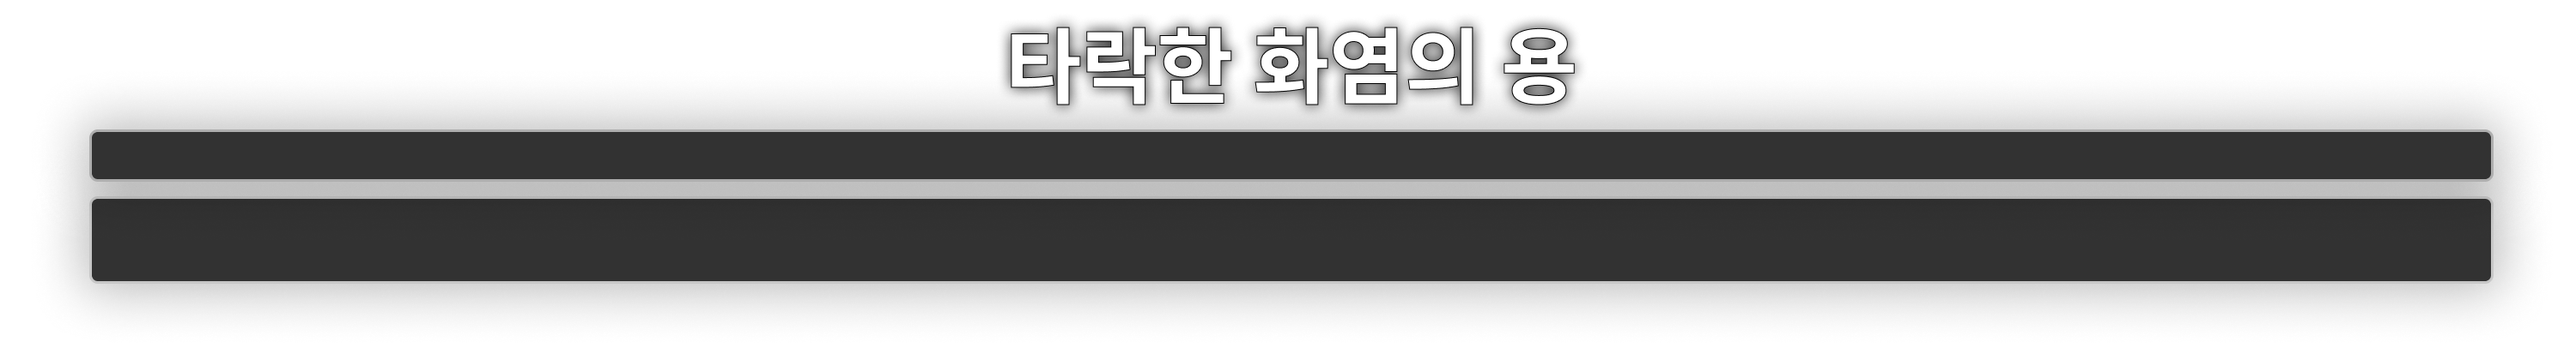
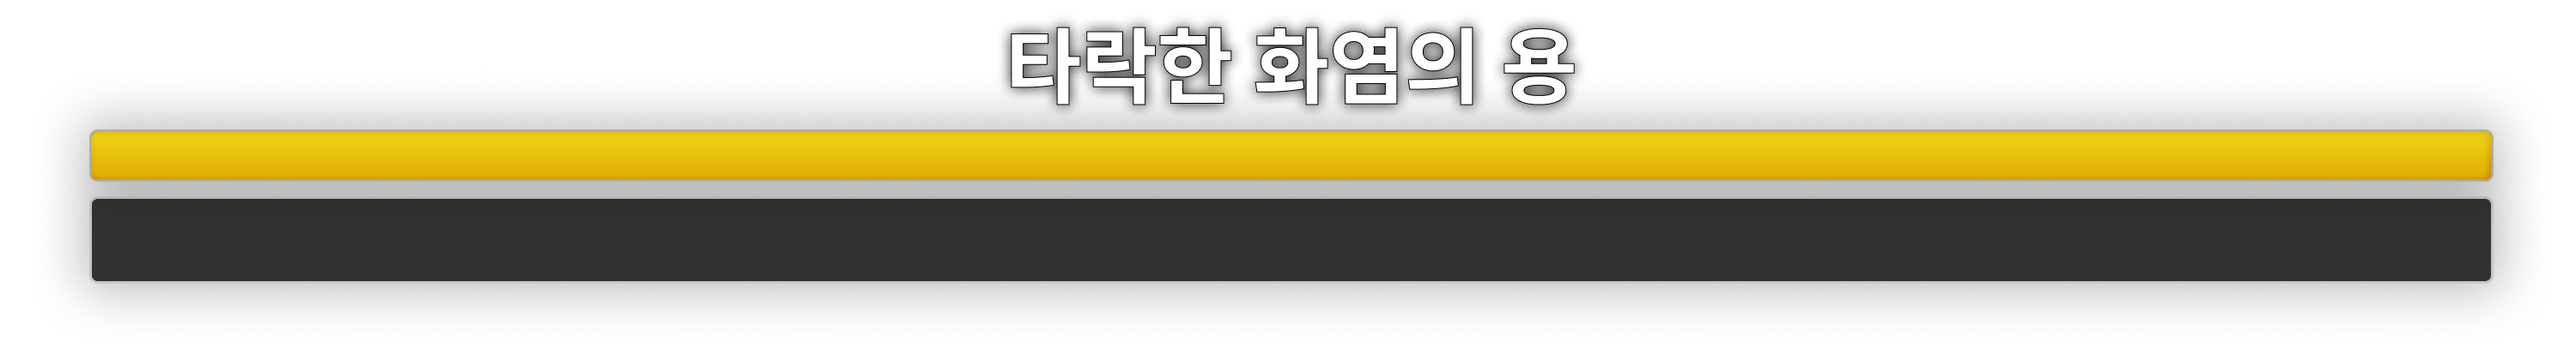
Final process (2)

Changed region(s): [[0.031, 0.3405, 0.992, 0.5262]]

diff --git a/evergreen_client/BossStatusGUI.cpp b/evergreen_client/BossStatusGUI.cpp
@@ -1,0 +1,55 @@
+#include "pch.h"
+#include "BossStatusGUI.h"
+
+using namespace udsdx;
+
+void BossStatusGUI::OnInitialize()
+{
+	m_iconObject = SceneObject::MakeShared();
+	m_iconObject->GetTransform()->SetLocalPosition(Vector3(0.0f, 627.0f, 0.0f));
+	auto iconRenderer = m_iconObject->AddComponent<GUIImage>();
+	iconRenderer->SetTexture(INSTANCE(Resource)->Load<udsdx::Texture>(RESOURCE_PATH(L"gui\\boss\\icon_boss.png")));
+	iconRenderer->SetSize(Vector2(185.0f, 185.0f));
+
+	GetSceneObject()->AddChild(m_iconObject);
+
+	m_panelObject = SceneObject::MakeShared();
+	m_panelObject->GetTransform()->SetLocalPosition(Vector3(0.0f, 500.0f, 0.0f));
+	auto panelRenderer = m_panelObject->AddComponent<GUIImage>();
+	panelRenderer->SetTexture(INSTANCE(Resource)->Load<udsdx::Texture>(RESOURCE_PATH(L"gui\\boss\\boss_status.png")));
+	panelRenderer->SetSize(Vector2(904.0f, 126.0f));
+
+	GetSceneObject()->AddChild(m_panelObject);
+
+	m_panelImpactObject = SceneObject::MakeShared();
+	auto panelImpactRenderer = m_panelImpactObject->AddComponent<GUIImage>();
+	panelImpactRenderer->SetTexture(INSTANCE(Resource)->Load<udsdx::Texture>(RESOURCE_PATH(L"gui\\boss\\boss_status_impact.png")));
+	panelImpactRenderer->SetSize(Vector2(904.0f, 126.0f));
+	panelImpactRenderer->SetFillType(GUIImage::FillType::FillHorizontalRight);
+
+	m_panelObject->AddChild(m_panelImpactObject);
+
+	m_panelFillObject = SceneObject::MakeShared();
+	auto panelFillRenderer = m_panelFillObject->AddComponent<GUIImage>();
+	panelFillRenderer->SetTexture(INSTANCE(Resource)->Load<udsdx::Texture>(RESOURCE_PATH(L"gui\\boss\\boss_status_fill.png")));
+	panelFillRenderer->SetSize(Vector2(904.0f, 126.0f));
+	panelFillRenderer->SetFillType(GUIImage::FillType::FillHorizontalRight);
+
+	m_panelObject->AddChild(m_panelFillObject);
+}
+
+void BossStatusGUI::OnActive()
+{
+	m_appearTime = 0.0f;
+}
+
+void BossStatusGUI::Update(const udsdx::Time& time, udsdx::Scene& scene)
+{
+	m_appearTime += time.deltaTime;
+	m_hpImpactTime -= time.deltaTime;
+	if (m_hpImpactTime <= 0.0f)
+		m_hpImpactFraction = std::lerp(m_hpImpactFraction, m_hpFraction, time.deltaTime * 8.0f);
+
+	m_panelImpactObject->GetComponent<GUIImage>()->SetFillAmount(std::min(m_hpImpactFraction, m_appearTime * 0.5f));
+	m_panelFillObject->GetComponent<GUIImage>()->SetFillAmount(std::min(m_hpFraction, m_appearTime * 0.5f));
+}

diff --git a/evergreen_client/MonsterBoss.cpp b/evergreen_client/MonsterBoss.cpp
@@ -2,6 +2,8 @@
 #include "MonsterBoss.h"
 #include "EntityMovement.h"
 #include "ServerObject.h"
+#include "BossStatusGUI.h"
+#include "GameScene.h"
 
 void MonsterBoss::OnInitialize()
 {
@@ -65,7 +67,28 @@ void MonsterBoss::OnInitialize()
 
     m_stateMachine->AddTransition<Common::AnimationStateTransition<AnimationState>>(AnimationState::BossLanding, AnimationState::Idle, m_renderer);
 
+    m_bossStatusGUI = SceneObject::MakeShared();
+    auto bossStatusComponent = m_bossStatusGUI->AddComponent<BossStatusGUI>();
+
     InitializeMonster("Boss");
+}
+
+void MonsterBoss::OnAttach()
+{
+    auto scene = GetSceneObject()->GetScene();
+    if (scene != nullptr)
+    {
+        auto gameScene = dynamic_cast<GameScene*>(scene);
+        if (gameScene != nullptr)
+        {
+            gameScene->AddInterfaceObject(m_bossStatusGUI, true);
+        }
+    }
+}
+
+void MonsterBoss::OnDetach()
+{
+    m_bossStatusGUI->RemoveFromParent();
 }
 
 void MonsterBoss::Update(const Time& time, Scene& scene)
@@ -78,6 +101,12 @@ void MonsterBoss::Update(const Time& time, Scene& scene)
     }
 
     Monster::Update(time, scene);
+}
+
+void MonsterBoss::OnHit(int afterHealth)
+{
+    Monster::OnHit(afterHealth);
+    m_bossStatusGUI->GetComponent<BossStatusGUI>()->SetHPFraction(static_cast<float>(afterHealth) / m_maxHP);
 }
 
 void MonsterBoss::OnDeath()

diff --git a/evergreen_client/Monster.cpp b/evergreen_client/Monster.cpp
@@ -114,10 +114,29 @@ void Monster::OnHit(int afterHealth)
 			particleEmitter->Play();
 		}
 
+		auto ringParticleObj = SceneObject::MakeShared();
+		ringParticleObj->GetTransform()->SetLocalPosition(GetTransform()->GetLocalPosition() + Vector3::Up);
+		{
+			auto particleEmitter = ringParticleObj->AddComponent<SphereParticleEmitter>();
+			particleEmitter->SetColor(Vector3(1.0f, 1.0f, 1.0f) * 2.0f);
+			particleEmitter->SetDrawCount(1);
+			particleEmitter->SetTexture(INSTANCE(Resource)->Load<udsdx::Texture>(RESOURCE_PATH(L"particle\\ring.png")));
+			particleEmitter->GetEmitterParameter().LifeTimeMin = 0.5f;
+			particleEmitter->GetEmitterParameter().LifeTimeMax = 0.5f;
+			particleEmitter->GetEmitterParameter().SizeMin = Vector2(2.0f, 2.0f);
+			particleEmitter->GetEmitterParameter().SizeMax = Vector2(2.0f, 2.0f);
+			particleEmitter->GetEmitterParameter().SizeLifeExp = Vector2::One * 0.2f;
+			particleEmitter->GetEmitterParameter().AlphaLifeExp = -1.0f;
+			particleEmitter->SetEmitLoop(false);
+			particleEmitter->SetAutoDestroy(true);
+			particleEmitter->Play();
+		}
+
 		if (Scene* scene = GetSceneObject()->GetScene())
 		{
 			scene->AddObject(hitParticleObj);
 			scene->AddObject(starParticleObj);
+			scene->AddObject(ringParticleObj);
 		}
 	}
 

diff --git a/evergreen_client/PlayerStatusGUI.cpp b/evergreen_client/PlayerStatusGUI.cpp
@@ -17,6 +17,7 @@ void PlayerStatusGUI::OnInitialize()
         m_healthFillRenderer = m_healthFill->AddComponent<GUIImage>();
         m_healthFill->GetTransform()->SetLocalPosition(Vector3(-702.5f, -630.0f, 0.0f));
         m_healthFillRenderer->SetTexture(INSTANCE(Resource)->Load<udsdx::Texture>(RESOURCE_PATH(L"gui\\health_fill.png")), true);
+        m_healthFillRenderer->SetFillType(GUIImage::FillType::FillHorizontalRight);
         m_healthFillWidthCache = static_cast<float>(m_healthFillRenderer->GetSize().x);
     }
 
@@ -44,10 +45,7 @@ void PlayerStatusGUI::SetCurrentHealth(int value)
 {
 	m_currentHealth = value;
     float factor = std::clamp(static_cast<float>(m_currentHealth) / static_cast<float>(m_maxHealth), 0.0f, 1.0f);
-    Vector2 size = m_healthFillRenderer->GetSize();
-    size.x = m_healthFillWidthCache * factor;
-    m_healthFillRenderer->SetSize(size);
-    m_healthFill->GetTransform()->SetLocalPosition(Vector3(-702.5f + (size.x - m_healthFillWidthCache) / 2.0f, -630.0f, 0.0f));
+    m_healthFillRenderer->SetFillAmount(factor);
     m_textRenderer->SetText(std::format(L"{0:02} / {1:02}", m_currentHealth, m_maxHealth));
 }
 

diff --git a/evergreen_client/DropItemRenderer.cpp b/evergreen_client/DropItemRenderer.cpp
@@ -1,5 +1,7 @@
 #include "pch.h"
 #include "DropItemRenderer.h"
+#include "ServerObjectMgr.h"
+#include "ServerObject.h"
 
 std::default_random_engine DropItemRenderer::randomEngine{};
 
@@ -12,6 +14,18 @@ void DropItemRenderer::OnInitialize()
 
 	auto urd = std::uniform_real_distribution(0.0f, udsdx::PI2);
 	m_rotationOffset = urd(randomEngine);
+}
+
+void DropItemRenderer::OnActive()
+{
+	auto listener = ServerObjectMgr::GetInst()->GetMainHero();
+	if (nullptr != listener)
+	{
+		m_appearSound = INSTANCE(udsdx::Resource)->Load<udsdx::AudioClip>(RESOURCE_PATH(L"audio\\item_drop.wav"))->CreateInstance();
+		auto distance = Vector3::Distance(listener->GetTransform()->GetLocalPosition(), GetTransform()->GetLocalPosition());
+		m_appearSound->SetVolume(1.0f / (distance * 0.1f + 2.0f));
+		m_appearSound->Play();
+	}
 }
 
 void DropItemRenderer::Update(const udsdx::Time& time, udsdx::Scene& scene)

diff --git a/engine/source/gui_image.h b/engine/source/gui_image.h
@@ -12,13 +12,28 @@ namespace udsdx
 	class GUIImage : public GUIElement
 	{
 	public:
+		enum class FillType
+		{
+			Default,
+			FillHorizontalRight,
+			FillHorizontalLeft,
+			FillVerticalUp,
+			FillVerticalDown,
+		};
+	public:
 		void Render(RenderParam& param) override;
 
 	public:
 		Texture* GetTexture() const { return m_texture; }
 		void SetTexture(Texture* value, bool setImageSize = false);
+		FillType GetFillType() const { return m_fillType; }
+		void SetFillType(FillType type) { m_fillType = type; }
+		float GetFillAmount() const { return m_fillAmount; }
+		void SetFillAmount(float amount) { m_fillAmount = std::clamp(amount, 0.0f, 1.0f); }
 
 	protected:
 		Texture* m_texture = nullptr;
+		FillType m_fillType = FillType::Default;
+		float m_fillAmount = 1.0f;
 	};
 }

diff --git a/evergreen_client/BossStatusGUI.h b/evergreen_client/BossStatusGUI.h
@@ -1,0 +1,25 @@
+#pragma once
+
+#include "pch.h"
+
+class BossStatusGUI : public udsdx::Component
+{
+public:
+	void OnInitialize() override;
+	void OnActive() override;
+	void Update(const udsdx::Time& time, udsdx::Scene& scene) override;
+
+	float GetHPFraction() const noexcept { return m_hpFraction; }
+	void SetHPFraction(float value) noexcept { m_hpFraction = value; m_hpImpactTime = 0.5f; }
+
+protected:
+	std::shared_ptr<udsdx::SceneObject> m_iconObject;
+	std::shared_ptr<udsdx::SceneObject> m_panelObject;
+	std::shared_ptr<udsdx::SceneObject> m_panelImpactObject;
+	std::shared_ptr<udsdx::SceneObject> m_panelFillObject;
+
+	float m_appearTime = 0.0f;
+	float m_hpFraction = 1.0f;
+	float m_hpImpactFraction = 1.0f;
+	float m_hpImpactTime = 0.0f;
+};

diff --git a/Protocols/s2c_PacketHandler.cpp b/Protocols/s2c_PacketHandler.cpp
@@ -133,11 +133,7 @@ const bool Handle_s2c_APPEAR_OBJECT(const NetHelper::S_ptr<NetHelper::PacketSess
 	}
 	else if (pkt_.group_type() == Nagox::Enum::GROUP_TYPE_DROP_ITEM)
 	{
-		static std::unique_ptr<SoundEffectInstance> g_appearSound;
-		g_appearSound = INSTANCE(Resource)->Load<AudioClip>(RESOURCE_PATH(L"audio\\item_drop.wav"))->CreateInstance();
-		auto distance = Vector3::Distance(Mgr(ServerObjectMgr)->GetMainHero()->GetTransform()->GetLocalPosition(), ::ToOriginVec3(pkt_.appear_pos()));
-		g_appearSound->SetVolume(1.0f / (distance * 0.1f + 2.0f));
-		g_appearSound->Play();
+		// std::cout << "아이템 등장\n";
 	}
 	else if (pkt_.group_type() == Nagox::Enum::GROUP_TYPE_HARVEST)
 	{

diff --git a/evergreen_client/GameScene.cpp b/evergreen_client/GameScene.cpp
@@ -830,9 +830,16 @@ void GameScene::AddActiveObject(const std::shared_ptr<udsdx::SceneObject>& obj, 
     m_activeObjectSubGroups[static_cast<std::uint8_t>(type)]->AddChild(obj);
 }
 
-void GameScene::AddInterfaceObject(const std::shared_ptr<udsdx::SceneObject>& obj)
+void GameScene::AddInterfaceObject(const std::shared_ptr<udsdx::SceneObject>& obj, bool front)
 {
-    m_playerInterfaceBackGroup->AddChild(obj);
+    if (front)
+    {
+        m_playerInterfaceGroup->AddChild(obj);
+    }
+    else
+    {
+        m_playerInterfaceBackGroup->AddChild(obj);
+    }
 }
 
 void GameScene::RequestChangeGameScene(GameSceneType type)

diff --git a/evergreen_client/GameScene.h b/evergreen_client/GameScene.h
@@ -33,7 +33,7 @@ public:
 	void OnTogglePlayerMode(bool spectatorMode);
 	void AddActiveObject(const std::shared_ptr<udsdx::SceneObject>& obj);
 	void AddActiveObject(const std::shared_ptr<udsdx::SceneObject>& obj, GameSceneType type);
-	void AddInterfaceObject(const std::shared_ptr<udsdx::SceneObject>& obj);
+	void AddInterfaceObject(const std::shared_ptr<udsdx::SceneObject>& obj, bool front = false);
 	bool GetSpectatorMode() const { return m_bSpectatorMode; }
 	std::shared_ptr<udsdx::SceneObject> GetHeroObject() const { return m_heroObj; }
 	void RequestChangeGameScene(GameSceneType type);
